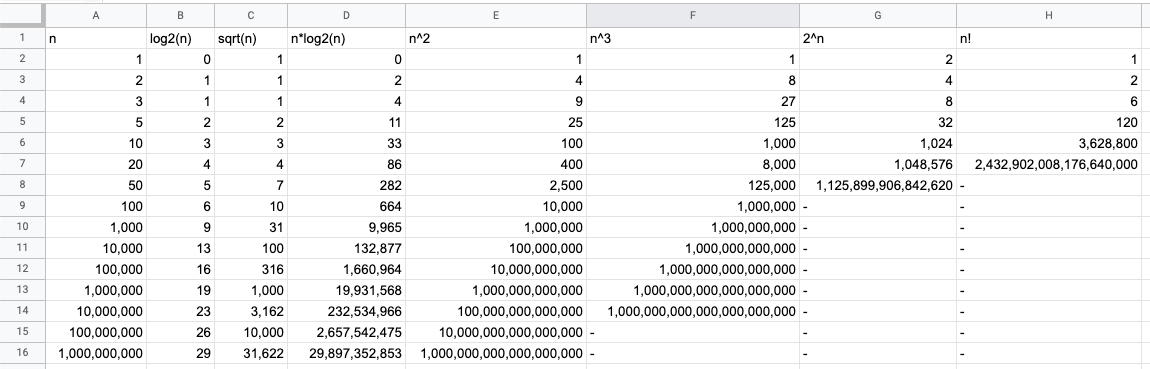
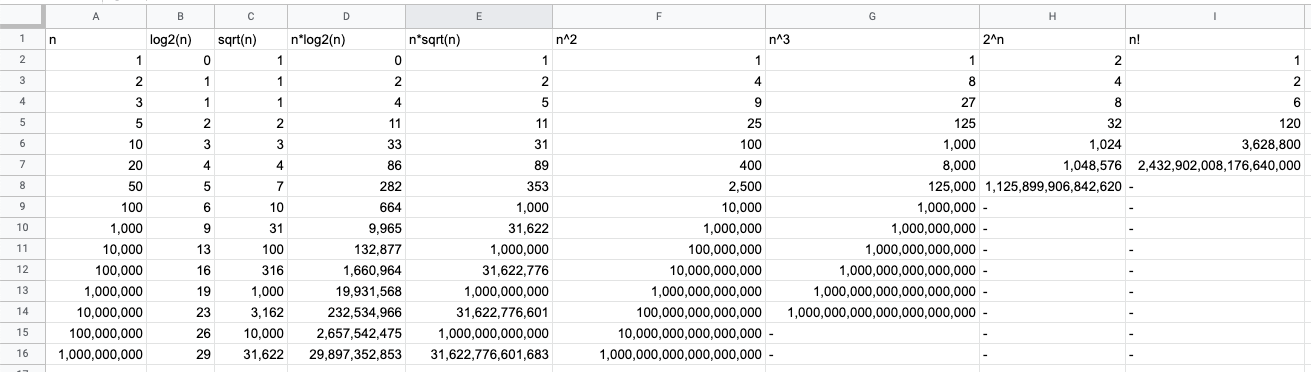
add 2.1.md

diff --git a/2/2.1.rb b/2/2.1.rb
@@ -11,13 +11,14 @@ def show(x)
   end
 end
 
-puts "n,log2(n),sqrt(n),n*log2(n),n^2,n^3,2^n,n!"
+puts "n,log2(n),sqrt(n),n*log2(n),n*sqrt(n),n^2,n^3,2^n,n!"
 [1,2,3,5,10,20,50,100,1000,10_000,100_000,1_000_000,10_000_000,100_000_000,1000_000_000].each.with_index do |n, i|
   puts [
     n,
     Math.log(n, 2),
     Math.sqrt(n),
     n * Math.log(n, 2),
+    n * Math.sqrt(n),
     n ** 2,
     n ** 3,
     (i < 10) ? 2 ** n : '-',

diff --git a/2/2.1.md b/2/2.1.md
@@ -12,7 +12,23 @@
 十分に大きな整数Nに対して `10/N + 7/N2` <= 1 となるので、
 `(5N^2 + 10N + 7)/N^2 <= 6` が成り立つ。
 
-よって `O(N2)` となる。
+よって `O(N^2)` となる。
 
 
 ## T3(N) = 4N^2 + 3N√N
+
+- N√N は N^2 で抑えられる（2.1.pngを参照）
+- よって `O(N^2)` となる
+
+
+## T4(N) = N√N + 5N logN
+
+- N√Nは N logN で抑えられる（2.1.pngを参照）
+- よって `O(logN)` となる
+
+
+## T5(N) = 2^N + N^2019
+
+- N^2019 は 2^N によって抑えられる
+- 境界値は N=30,030
+- よって `O(N^2)` となる

diff --git a/README.md b/README.md
@@ -1,3 +1,3 @@
 ## study-algo-ds
 
-回答URL: `https://github.com/drken1215/book_algorithm_solution`
+[回答URL](https://github.com/drken1215/book_algorithm_solution)
